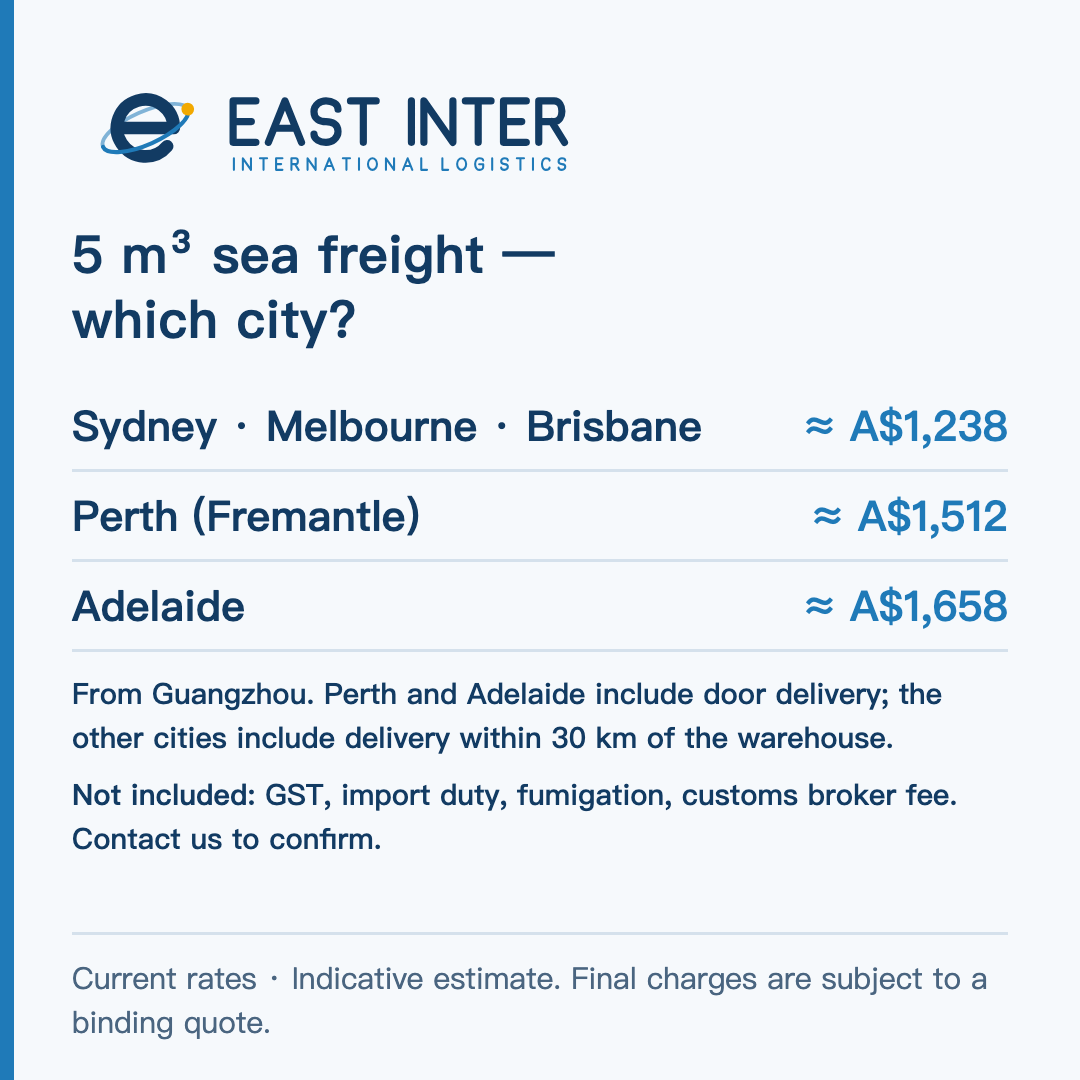
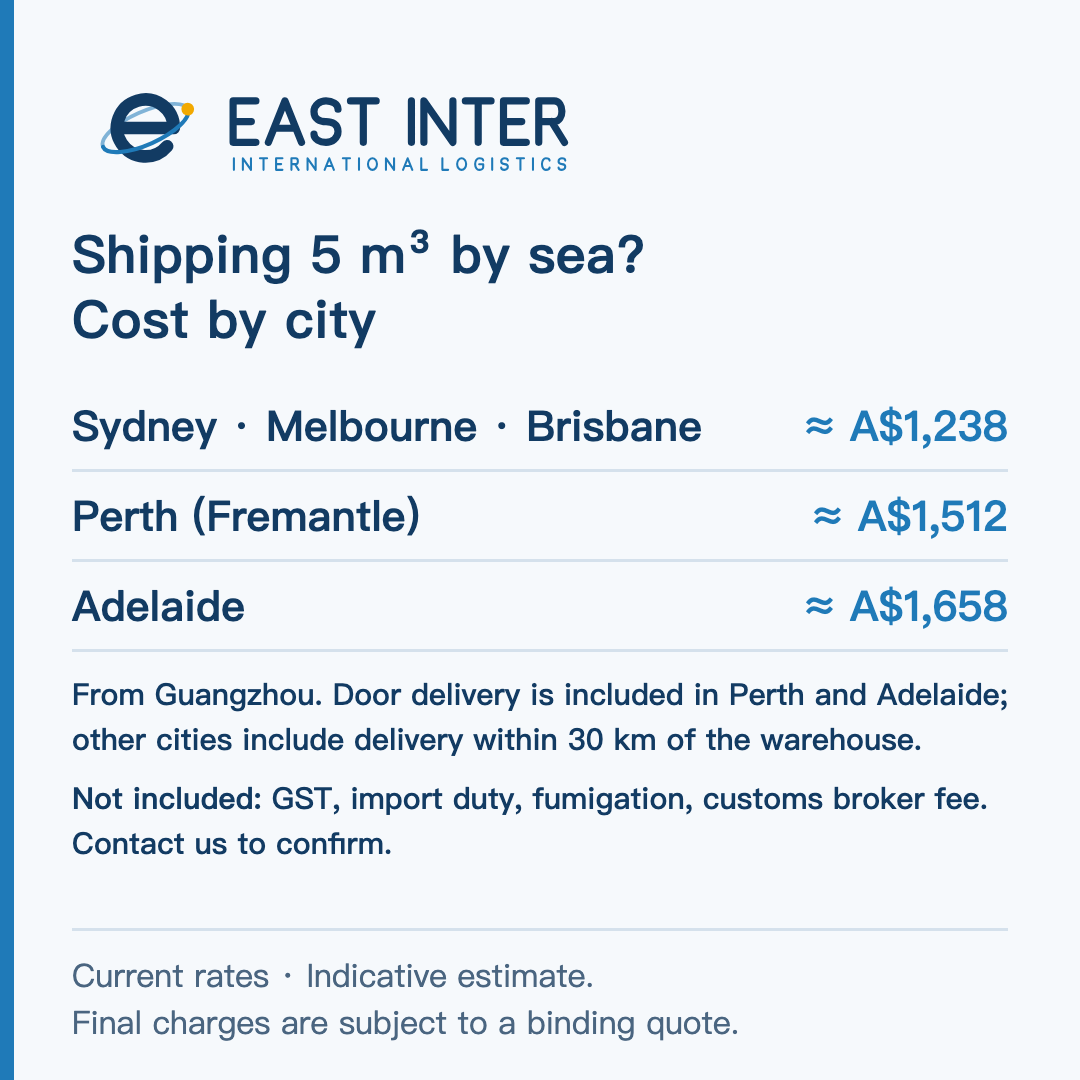
docs(client): 英文价格卡页脚折行与字号（马良意见）[east.social.copy-101]

Changed region(s): [[0.0611, 0.6111, 0.9472, 0.7944], [0.0611, 0.8556, 0.9167, 0.9778], [0.0611, 0.2139, 0.6111, 0.3361]]

diff --git a/docs/clients/east-inter/cards-draft/card2-en.html b/docs/clients/east-inter/cards-draft/card2-en.html
@@ -15,7 +15,7 @@ h1{font-size:60px;line-height:1.25;font-weight:800;letter-spacing:.5px}
 .pill{display:inline-block;background:#123B63;color:#fff;border-radius:60px;padding:10px 34px;font-size:40px;font-weight:700;margin:6px 14px 6px 0}
 .note{font-size:30px;line-height:1.5;color:#123B63;margin-top:26px;font-weight:500}
 .note b{font-weight:800}
-.en .main{top:222px}.en h1{font-size:52px}.en .note{font-size:29px}.en .foot{font-size:30px;bottom:36px}.en .row{padding:14px 0}
+.en .main{top:222px}.en h1{font-size:52px}.en .note{font-size:30px}.en .foot{font-size:32px;bottom:34px}.en .row{padding:14px 0}
 </style><body class="en"><div class="bar"></div><div class="top"><svg xmlns="http://www.w3.org/2000/svg" viewBox="0 0 652 160" width="520" height="128" role="img" aria-label="East Inter International Logistics"><title>East Inter International Logistics</title>
 <g transform="translate(17.00 5.00) scale(0.9375)">
 <g transform="rotate(-24 80 80)"><path d="M18 80 A62 22 0 0 1 142 80" fill="none" stroke="#1F7AB8" stroke-width="5" stroke-linecap="round" opacity=".55"/></g>
@@ -25,4 +25,4 @@ h1{font-size:60px;line-height:1.25;font-weight:800;letter-spacing:.5px}
 <path d="M 230.60 46.00 H 202.00 V 98.00 H 230.60 M 202.00 72.00 H 224.88 M 246.20 98.00 L 267.00 46.00 L 287.80 98.00 M 254.52 80.32 H 279.48 M 333.56 56.40 C 333.56 49.64 326.02 46.00 318.48 46.00 C 310.94 46.00 303.40 51.20 303.40 59.52 C 303.40 68.88 310.94 72.00 318.48 72.00 C 326.02 72.00 333.56 75.12 333.56 84.48 C 333.56 92.80 326.02 98.00 318.48 98.00 C 310.94 98.00 303.40 94.36 303.40 87.60 M 349.16 46.00 H 381.40 M 365.28 46.00 V 98.00 M 425.60 46.00 V 98.00 M 441.20 98.00 V 46.00 L 477.60 98.00 V 46.00 M 493.20 46.00 H 525.44 M 509.32 46.00 V 98.00 M 569.64 46.00 H 541.04 V 98.00 H 569.64 M 541.04 72.00 H 563.92 M 585.24 98.00 V 46.00 H 604.58 C 617.48 46.00 617.48 72.00 604.58 72.00 H 585.24 M 601.36 72.00 L 617.48 98.00" fill="none" stroke="#123B63" stroke-width="9" stroke-linecap="round" stroke-linejoin="round"/>
 <path d="M 203.00 118.00 V 132.50 M 214.25 132.50 V 118.00 L 224.40 132.50 V 118.00 M 235.65 118.00 H 244.64 M 240.15 118.00 V 132.50 M 263.87 118.00 H 255.89 V 132.50 H 263.87 M 255.89 125.25 H 262.27 M 275.12 132.50 V 118.00 H 280.51 C 284.11 118.00 284.11 125.25 280.51 125.25 H 275.12 M 279.61 125.25 L 284.11 132.50 M 295.36 132.50 V 118.00 L 305.51 132.50 V 118.00 M 316.76 132.50 L 322.56 118.00 L 328.36 132.50 M 319.08 127.57 H 326.04 M 339.61 118.00 H 348.60 M 344.10 118.00 V 132.50 M 359.85 118.00 V 132.50 M 376.75 118.00 C 379.58 118.00 382.41 120.90 382.41 125.25 C 382.41 129.60 379.58 132.50 376.75 132.50 C 373.93 132.50 371.10 129.60 371.10 125.25 C 371.10 120.90 373.93 118.00 376.75 118.00 Z M 393.66 132.50 V 118.00 L 403.81 132.50 V 118.00 M 415.06 132.50 L 420.86 118.00 L 426.66 132.50 M 417.38 127.57 H 424.34 M 437.91 118.00 V 132.50 H 445.16 M 464.39 118.00 V 132.50 H 471.64 M 488.54 118.00 C 491.37 118.00 494.20 120.90 494.20 125.25 C 494.20 129.60 491.37 132.50 488.54 132.50 C 485.71 132.50 482.89 129.60 482.89 125.25 C 482.89 120.90 485.71 118.00 488.54 118.00 Z M 515.60 120.90 C 515.60 119.16 513.06 118.00 510.52 118.00 C 507.98 118.00 505.45 120.90 505.45 125.25 C 505.45 129.60 507.98 132.50 510.52 132.50 C 513.06 132.50 515.60 131.05 515.60 128.88 V 125.54 H 510.52 M 526.85 118.00 V 132.50 M 546.51 120.90 C 546.51 119.02 544.41 118.00 542.30 118.00 C 540.20 118.00 538.10 119.45 538.10 121.77 C 538.10 124.38 540.20 125.25 542.30 125.25 C 544.41 125.25 546.51 126.12 546.51 128.73 C 546.51 131.05 544.41 132.50 542.30 132.50 C 540.20 132.50 538.10 131.49 538.10 129.60 M 557.76 118.00 H 566.75 M 562.25 118.00 V 132.50 M 578.00 118.00 V 132.50 M 598.82 120.90 C 598.82 119.16 596.43 118.00 594.03 118.00 C 591.64 118.00 589.25 120.90 589.25 125.25 C 589.25 129.60 591.64 132.50 594.03 132.50 C 596.43 132.50 598.82 131.34 598.82 129.60 M 618.48 120.90 C 618.48 119.02 616.38 118.00 614.28 118.00 C 612.17 118.00 610.07 119.45 610.07 121.77 C 610.07 124.38 612.17 125.25 614.28 125.25 C 616.38 125.25 618.48 126.12 618.48 128.73 C 618.48 131.05 616.38 132.50 614.28 132.50 C 612.17 132.50 610.07 131.49 610.07 129.60" fill="none" stroke="#1F7AB8" stroke-width="2.6" stroke-linecap="round" stroke-linejoin="round"/>
 </svg>
-</div><div class="main"><h1>5 m³ sea freight —<br>which city?</h1><div style='margin-top:30px'><div class='row' style='font-size:42px'><span>Sydney · Melbourne · Brisbane</span><b>≈ A$1,238</b></div><div class='row' style='font-size:42px'><span>Perth (Fremantle)</span><b>≈ A$1,512</b></div><div class='row' style='font-size:42px'><span>Adelaide</span><b>≈ A$1,658</b></div></div><div class='note' style='margin-top:20px'>From Guangzhou. Perth and Adelaide include door delivery; the other cities include delivery within 30 km of the warehouse.</div><div class='note' style='margin-top:14px'><b>Not included:</b> GST, import duty, fumigation, customs broker fee. <span style='white-space:nowrap'>Contact us to confirm.</span></div></div><div class="foot">Current rates · Indicative estimate. Final charges are subject to a binding quote.</div></body></html>
+</div><div class="main"><h1>Shipping 5 m³ by sea?<br>Cost by city</h1><div style='margin-top:30px'><div class='row' style='font-size:42px'><span>Sydney · Melbourne · Brisbane</span><b>≈ A$1,238</b></div><div class='row' style='font-size:42px'><span>Perth (Fremantle)</span><b>≈ A$1,512</b></div><div class='row' style='font-size:42px'><span>Adelaide</span><b>≈ A$1,658</b></div></div><div class='note' style='margin-top:20px'>From Guangzhou. Door delivery is included in Perth and Adelaide; other cities include delivery within 30 km of the warehouse.</div><div class='note' style='margin-top:14px'><b>Not included:</b> GST, import duty, fumigation, customs broker fee. <span style='white-space:nowrap'>Contact us to confirm.</span></div></div><div class="foot">Current rates · Indicative estimate.<br>Final charges are subject to a binding quote.</div></body></html>

diff --git a/docs/clients/east-inter/cards-draft/card1-en.html b/docs/clients/east-inter/cards-draft/card1-en.html
@@ -15,7 +15,7 @@ h1{font-size:60px;line-height:1.25;font-weight:800;letter-spacing:.5px}
 .pill{display:inline-block;background:#123B63;color:#fff;border-radius:60px;padding:10px 34px;font-size:40px;font-weight:700;margin:6px 14px 6px 0}
 .note{font-size:30px;line-height:1.5;color:#123B63;margin-top:26px;font-weight:500}
 .note b{font-weight:800}
-.en .main{top:222px}.en h1{font-size:52px}.en .note{font-size:29px}.en .foot{font-size:30px;bottom:36px}.en .row{padding:14px 0}
+.en .main{top:222px}.en h1{font-size:52px}.en .note{font-size:30px}.en .foot{font-size:32px;bottom:34px}.en .row{padding:14px 0}
 </style><body class="en"><div class="bar"></div><div class="top"><svg xmlns="http://www.w3.org/2000/svg" viewBox="0 0 652 160" width="520" height="128" role="img" aria-label="East Inter International Logistics"><title>East Inter International Logistics</title>
 <g transform="translate(17.00 5.00) scale(0.9375)">
 <g transform="rotate(-24 80 80)"><path d="M18 80 A62 22 0 0 1 142 80" fill="none" stroke="#1F7AB8" stroke-width="5" stroke-linecap="round" opacity=".55"/></g>
@@ -25,4 +25,4 @@ h1{font-size:60px;line-height:1.25;font-weight:800;letter-spacing:.5px}
 <path d="M 230.60 46.00 H 202.00 V 98.00 H 230.60 M 202.00 72.00 H 224.88 M 246.20 98.00 L 267.00 46.00 L 287.80 98.00 M 254.52 80.32 H 279.48 M 333.56 56.40 C 333.56 49.64 326.02 46.00 318.48 46.00 C 310.94 46.00 303.40 51.20 303.40 59.52 C 303.40 68.88 310.94 72.00 318.48 72.00 C 326.02 72.00 333.56 75.12 333.56 84.48 C 333.56 92.80 326.02 98.00 318.48 98.00 C 310.94 98.00 303.40 94.36 303.40 87.60 M 349.16 46.00 H 381.40 M 365.28 46.00 V 98.00 M 425.60 46.00 V 98.00 M 441.20 98.00 V 46.00 L 477.60 98.00 V 46.00 M 493.20 46.00 H 525.44 M 509.32 46.00 V 98.00 M 569.64 46.00 H 541.04 V 98.00 H 569.64 M 541.04 72.00 H 563.92 M 585.24 98.00 V 46.00 H 604.58 C 617.48 46.00 617.48 72.00 604.58 72.00 H 585.24 M 601.36 72.00 L 617.48 98.00" fill="none" stroke="#123B63" stroke-width="9" stroke-linecap="round" stroke-linejoin="round"/>
 <path d="M 203.00 118.00 V 132.50 M 214.25 132.50 V 118.00 L 224.40 132.50 V 118.00 M 235.65 118.00 H 244.64 M 240.15 118.00 V 132.50 M 263.87 118.00 H 255.89 V 132.50 H 263.87 M 255.89 125.25 H 262.27 M 275.12 132.50 V 118.00 H 280.51 C 284.11 118.00 284.11 125.25 280.51 125.25 H 275.12 M 279.61 125.25 L 284.11 132.50 M 295.36 132.50 V 118.00 L 305.51 132.50 V 118.00 M 316.76 132.50 L 322.56 118.00 L 328.36 132.50 M 319.08 127.57 H 326.04 M 339.61 118.00 H 348.60 M 344.10 118.00 V 132.50 M 359.85 118.00 V 132.50 M 376.75 118.00 C 379.58 118.00 382.41 120.90 382.41 125.25 C 382.41 129.60 379.58 132.50 376.75 132.50 C 373.93 132.50 371.10 129.60 371.10 125.25 C 371.10 120.90 373.93 118.00 376.75 118.00 Z M 393.66 132.50 V 118.00 L 403.81 132.50 V 118.00 M 415.06 132.50 L 420.86 118.00 L 426.66 132.50 M 417.38 127.57 H 424.34 M 437.91 118.00 V 132.50 H 445.16 M 464.39 118.00 V 132.50 H 471.64 M 488.54 118.00 C 491.37 118.00 494.20 120.90 494.20 125.25 C 494.20 129.60 491.37 132.50 488.54 132.50 C 485.71 132.50 482.89 129.60 482.89 125.25 C 482.89 120.90 485.71 118.00 488.54 118.00 Z M 515.60 120.90 C 515.60 119.16 513.06 118.00 510.52 118.00 C 507.98 118.00 505.45 120.90 505.45 125.25 C 505.45 129.60 507.98 132.50 510.52 132.50 C 513.06 132.50 515.60 131.05 515.60 128.88 V 125.54 H 510.52 M 526.85 118.00 V 132.50 M 546.51 120.90 C 546.51 119.02 544.41 118.00 542.30 118.00 C 540.20 118.00 538.10 119.45 538.10 121.77 C 538.10 124.38 540.20 125.25 542.30 125.25 C 544.41 125.25 546.51 126.12 546.51 128.73 C 546.51 131.05 544.41 132.50 542.30 132.50 C 540.20 132.50 538.10 131.49 538.10 129.60 M 557.76 118.00 H 566.75 M 562.25 118.00 V 132.50 M 578.00 118.00 V 132.50 M 598.82 120.90 C 598.82 119.16 596.43 118.00 594.03 118.00 C 591.64 118.00 589.25 120.90 589.25 125.25 C 589.25 129.60 591.64 132.50 594.03 132.50 C 596.43 132.50 598.82 131.34 598.82 129.60 M 618.48 120.90 C 618.48 119.02 616.38 118.00 614.28 118.00 C 612.17 118.00 610.07 119.45 610.07 121.77 C 610.07 124.38 612.17 125.25 614.28 125.25 C 616.38 125.25 618.48 126.12 618.48 128.73 C 618.48 131.05 616.38 132.50 614.28 132.50 C 612.17 132.50 610.07 131.49 610.07 129.60" fill="none" stroke="#1F7AB8" stroke-width="2.6" stroke-linecap="round" stroke-linejoin="round"/>
 </svg>
-</div><div class="main"><h1>Guangzhou to Sydney<br>Sea freight LCL, 1 m³</h1><div class='big' style='font-size:150px;margin:20px 0 10px'>≈ A$378</div><div class='sub' style='font-size:38px'>Door to door · clearance included<br>Approx. 20 days (estimate)</div><div class='note' style='margin-top:14px'>Delivery within 30 km of the warehouse is included.</div><div class='note'><b>Not included:</b> GST (10% of goods value), import duty (0–10%), fumigation (wood or natural materials, A$143 per shipment), customs broker fee (from A$99). <span style='white-space:nowrap'>Contact us to confirm.</span></div></div><div class="foot">Current rates · Indicative estimate. Final charges are subject to a binding quote.</div></body></html>
+</div><div class="main"><h1>Guangzhou to Sydney<br>Sea freight LCL, 1 m³</h1><div class='big' style='font-size:150px;margin:20px 0 10px 0'><span style='margin-left:-12px'>≈ A$378</span></div><div class='sub' style='font-size:38px'>Door to door · clearance included<br>Approx. 20 days (estimate)</div><div class='note' style='margin-top:14px'>Delivery within 30 km of the warehouse is included.</div><div class='note'><b>Not included:</b> GST (10% of goods value), import duty (0–10%), fumigation (wood or natural materials, A$143 per shipment), customs broker fee (from A$99). <span style='white-space:nowrap'>Contact us to confirm.</span></div></div><div class="foot">Current rates · Indicative estimate.<br>Final charges are subject to a binding quote.</div></body></html>

diff --git a/docs/clients/east-inter/cards-draft/d1-en.html b/docs/clients/east-inter/cards-draft/d1-en.html
@@ -15,7 +15,7 @@ h1{font-size:60px;line-height:1.25;font-weight:800;letter-spacing:.5px}
 .pill{display:inline-block;background:#123B63;color:#fff;border-radius:60px;padding:10px 34px;font-size:40px;font-weight:700;margin:6px 14px 6px 0}
 .note{font-size:30px;line-height:1.5;color:#123B63;margin-top:26px;font-weight:500}
 .note b{font-weight:800}
-.en .main{top:222px}.en h1{font-size:52px}.en .note{font-size:29px}.en .foot{font-size:30px;bottom:36px}.en .row{padding:14px 0}
+.en .main{top:222px}.en h1{font-size:52px}.en .note{font-size:30px}.en .foot{font-size:32px;bottom:34px}.en .row{padding:14px 0}
 </style><body class="en"><div class="bar"></div><div class="top"><svg xmlns="http://www.w3.org/2000/svg" viewBox="0 0 652 160" width="520" height="128" role="img" aria-label="East Inter International Logistics"><title>East Inter International Logistics</title>
 <g transform="translate(17.00 5.00) scale(0.9375)">
 <g transform="rotate(-24 80 80)"><path d="M18 80 A62 22 0 0 1 142 80" fill="none" stroke="#1F7AB8" stroke-width="5" stroke-linecap="round" opacity=".55"/></g>

diff --git a/docs/clients/east-inter/cards-draft/d2-en.html b/docs/clients/east-inter/cards-draft/d2-en.html
@@ -15,7 +15,7 @@ h1{font-size:60px;line-height:1.25;font-weight:800;letter-spacing:.5px}
 .pill{display:inline-block;background:#123B63;color:#fff;border-radius:60px;padding:10px 34px;font-size:40px;font-weight:700;margin:6px 14px 6px 0}
 .note{font-size:30px;line-height:1.5;color:#123B63;margin-top:26px;font-weight:500}
 .note b{font-weight:800}
-.en .main{top:222px}.en h1{font-size:52px}.en .note{font-size:29px}.en .foot{font-size:30px;bottom:36px}.en .row{padding:14px 0}
+.en .main{top:222px}.en h1{font-size:52px}.en .note{font-size:30px}.en .foot{font-size:32px;bottom:34px}.en .row{padding:14px 0}
 </style><body class="en"><div class="bar"></div><div class="top"><svg xmlns="http://www.w3.org/2000/svg" viewBox="0 0 652 160" width="520" height="128" role="img" aria-label="East Inter International Logistics"><title>East Inter International Logistics</title>
 <g transform="translate(17.00 5.00) scale(0.9375)">
 <g transform="rotate(-24 80 80)"><path d="M18 80 A62 22 0 0 1 142 80" fill="none" stroke="#1F7AB8" stroke-width="5" stroke-linecap="round" opacity=".55"/></g>

diff --git a/docs/clients/east-inter/cards-draft/d4-en.html b/docs/clients/east-inter/cards-draft/d4-en.html
@@ -15,7 +15,7 @@ h1{font-size:60px;line-height:1.25;font-weight:800;letter-spacing:.5px}
 .pill{display:inline-block;background:#123B63;color:#fff;border-radius:60px;padding:10px 34px;font-size:40px;font-weight:700;margin:6px 14px 6px 0}
 .note{font-size:30px;line-height:1.5;color:#123B63;margin-top:26px;font-weight:500}
 .note b{font-weight:800}
-.en .main{top:222px}.en h1{font-size:52px}.en .note{font-size:29px}.en .foot{font-size:30px;bottom:36px}.en .row{padding:14px 0}
+.en .main{top:222px}.en h1{font-size:52px}.en .note{font-size:30px}.en .foot{font-size:32px;bottom:34px}.en .row{padding:14px 0}
 </style><body class="en"><div class="bar"></div><div class="top"><svg xmlns="http://www.w3.org/2000/svg" viewBox="0 0 652 160" width="520" height="128" role="img" aria-label="East Inter International Logistics"><title>East Inter International Logistics</title>
 <g transform="translate(17.00 5.00) scale(0.9375)">
 <g transform="rotate(-24 80 80)"><path d="M18 80 A62 22 0 0 1 142 80" fill="none" stroke="#1F7AB8" stroke-width="5" stroke-linecap="round" opacity=".55"/></g>

diff --git a/docs/clients/east-inter/cards-draft/card1-zh.html b/docs/clients/east-inter/cards-draft/card1-zh.html
@@ -15,7 +15,7 @@ h1{font-size:60px;line-height:1.25;font-weight:800;letter-spacing:.5px}
 .pill{display:inline-block;background:#123B63;color:#fff;border-radius:60px;padding:10px 34px;font-size:40px;font-weight:700;margin:6px 14px 6px 0}
 .note{font-size:30px;line-height:1.5;color:#123B63;margin-top:26px;font-weight:500}
 .note b{font-weight:800}
-.en .main{top:222px}.en h1{font-size:52px}.en .note{font-size:29px}.en .foot{font-size:30px;bottom:36px}.en .row{padding:14px 0}
+.en .main{top:222px}.en h1{font-size:52px}.en .note{font-size:30px}.en .foot{font-size:32px;bottom:34px}.en .row{padding:14px 0}
 </style><body class=""><div class="bar"></div><div class="top"><svg xmlns="http://www.w3.org/2000/svg" viewBox="0 0 652 160" width="520" height="128" role="img" aria-label="East Inter International Logistics"><title>East Inter International Logistics</title>
 <g transform="translate(17.00 5.00) scale(0.9375)">
 <g transform="rotate(-24 80 80)"><path d="M18 80 A62 22 0 0 1 142 80" fill="none" stroke="#1F7AB8" stroke-width="5" stroke-linecap="round" opacity=".55"/></g>

diff --git a/docs/clients/east-inter/cards-draft/card2-zh.html b/docs/clients/east-inter/cards-draft/card2-zh.html
@@ -15,7 +15,7 @@ h1{font-size:60px;line-height:1.25;font-weight:800;letter-spacing:.5px}
 .pill{display:inline-block;background:#123B63;color:#fff;border-radius:60px;padding:10px 34px;font-size:40px;font-weight:700;margin:6px 14px 6px 0}
 .note{font-size:30px;line-height:1.5;color:#123B63;margin-top:26px;font-weight:500}
 .note b{font-weight:800}
-.en .main{top:222px}.en h1{font-size:52px}.en .note{font-size:29px}.en .foot{font-size:30px;bottom:36px}.en .row{padding:14px 0}
+.en .main{top:222px}.en h1{font-size:52px}.en .note{font-size:30px}.en .foot{font-size:32px;bottom:34px}.en .row{padding:14px 0}
 </style><body class=""><div class="bar"></div><div class="top"><svg xmlns="http://www.w3.org/2000/svg" viewBox="0 0 652 160" width="520" height="128" role="img" aria-label="East Inter International Logistics"><title>East Inter International Logistics</title>
 <g transform="translate(17.00 5.00) scale(0.9375)">
 <g transform="rotate(-24 80 80)"><path d="M18 80 A62 22 0 0 1 142 80" fill="none" stroke="#1F7AB8" stroke-width="5" stroke-linecap="round" opacity=".55"/></g>

diff --git a/docs/clients/east-inter/cards-draft/d1-zh.html b/docs/clients/east-inter/cards-draft/d1-zh.html
@@ -15,7 +15,7 @@ h1{font-size:60px;line-height:1.25;font-weight:800;letter-spacing:.5px}
 .pill{display:inline-block;background:#123B63;color:#fff;border-radius:60px;padding:10px 34px;font-size:40px;font-weight:700;margin:6px 14px 6px 0}
 .note{font-size:30px;line-height:1.5;color:#123B63;margin-top:26px;font-weight:500}
 .note b{font-weight:800}
-.en .main{top:222px}.en h1{font-size:52px}.en .note{font-size:29px}.en .foot{font-size:30px;bottom:36px}.en .row{padding:14px 0}
+.en .main{top:222px}.en h1{font-size:52px}.en .note{font-size:30px}.en .foot{font-size:32px;bottom:34px}.en .row{padding:14px 0}
 </style><body class=""><div class="bar"></div><div class="top"><svg xmlns="http://www.w3.org/2000/svg" viewBox="0 0 652 160" width="520" height="128" role="img" aria-label="East Inter International Logistics"><title>East Inter International Logistics</title>
 <g transform="translate(17.00 5.00) scale(0.9375)">
 <g transform="rotate(-24 80 80)"><path d="M18 80 A62 22 0 0 1 142 80" fill="none" stroke="#1F7AB8" stroke-width="5" stroke-linecap="round" opacity=".55"/></g>

diff --git a/docs/clients/east-inter/cards-draft/d2-zh.html b/docs/clients/east-inter/cards-draft/d2-zh.html
@@ -15,7 +15,7 @@ h1{font-size:60px;line-height:1.25;font-weight:800;letter-spacing:.5px}
 .pill{display:inline-block;background:#123B63;color:#fff;border-radius:60px;padding:10px 34px;font-size:40px;font-weight:700;margin:6px 14px 6px 0}
 .note{font-size:30px;line-height:1.5;color:#123B63;margin-top:26px;font-weight:500}
 .note b{font-weight:800}
-.en .main{top:222px}.en h1{font-size:52px}.en .note{font-size:29px}.en .foot{font-size:30px;bottom:36px}.en .row{padding:14px 0}
+.en .main{top:222px}.en h1{font-size:52px}.en .note{font-size:30px}.en .foot{font-size:32px;bottom:34px}.en .row{padding:14px 0}
 </style><body class=""><div class="bar"></div><div class="top"><svg xmlns="http://www.w3.org/2000/svg" viewBox="0 0 652 160" width="520" height="128" role="img" aria-label="East Inter International Logistics"><title>East Inter International Logistics</title>
 <g transform="translate(17.00 5.00) scale(0.9375)">
 <g transform="rotate(-24 80 80)"><path d="M18 80 A62 22 0 0 1 142 80" fill="none" stroke="#1F7AB8" stroke-width="5" stroke-linecap="round" opacity=".55"/></g>

diff --git a/docs/clients/east-inter/cards-draft/d4-zh.html b/docs/clients/east-inter/cards-draft/d4-zh.html
@@ -15,7 +15,7 @@ h1{font-size:60px;line-height:1.25;font-weight:800;letter-spacing:.5px}
 .pill{display:inline-block;background:#123B63;color:#fff;border-radius:60px;padding:10px 34px;font-size:40px;font-weight:700;margin:6px 14px 6px 0}
 .note{font-size:30px;line-height:1.5;color:#123B63;margin-top:26px;font-weight:500}
 .note b{font-weight:800}
-.en .main{top:222px}.en h1{font-size:52px}.en .note{font-size:29px}.en .foot{font-size:30px;bottom:36px}.en .row{padding:14px 0}
+.en .main{top:222px}.en h1{font-size:52px}.en .note{font-size:30px}.en .foot{font-size:32px;bottom:34px}.en .row{padding:14px 0}
 </style><body class=""><div class="bar"></div><div class="top"><svg xmlns="http://www.w3.org/2000/svg" viewBox="0 0 652 160" width="520" height="128" role="img" aria-label="East Inter International Logistics"><title>East Inter International Logistics</title>
 <g transform="translate(17.00 5.00) scale(0.9375)">
 <g transform="rotate(-24 80 80)"><path d="M18 80 A62 22 0 0 1 142 80" fill="none" stroke="#1F7AB8" stroke-width="5" stroke-linecap="round" opacity=".55"/></g>
